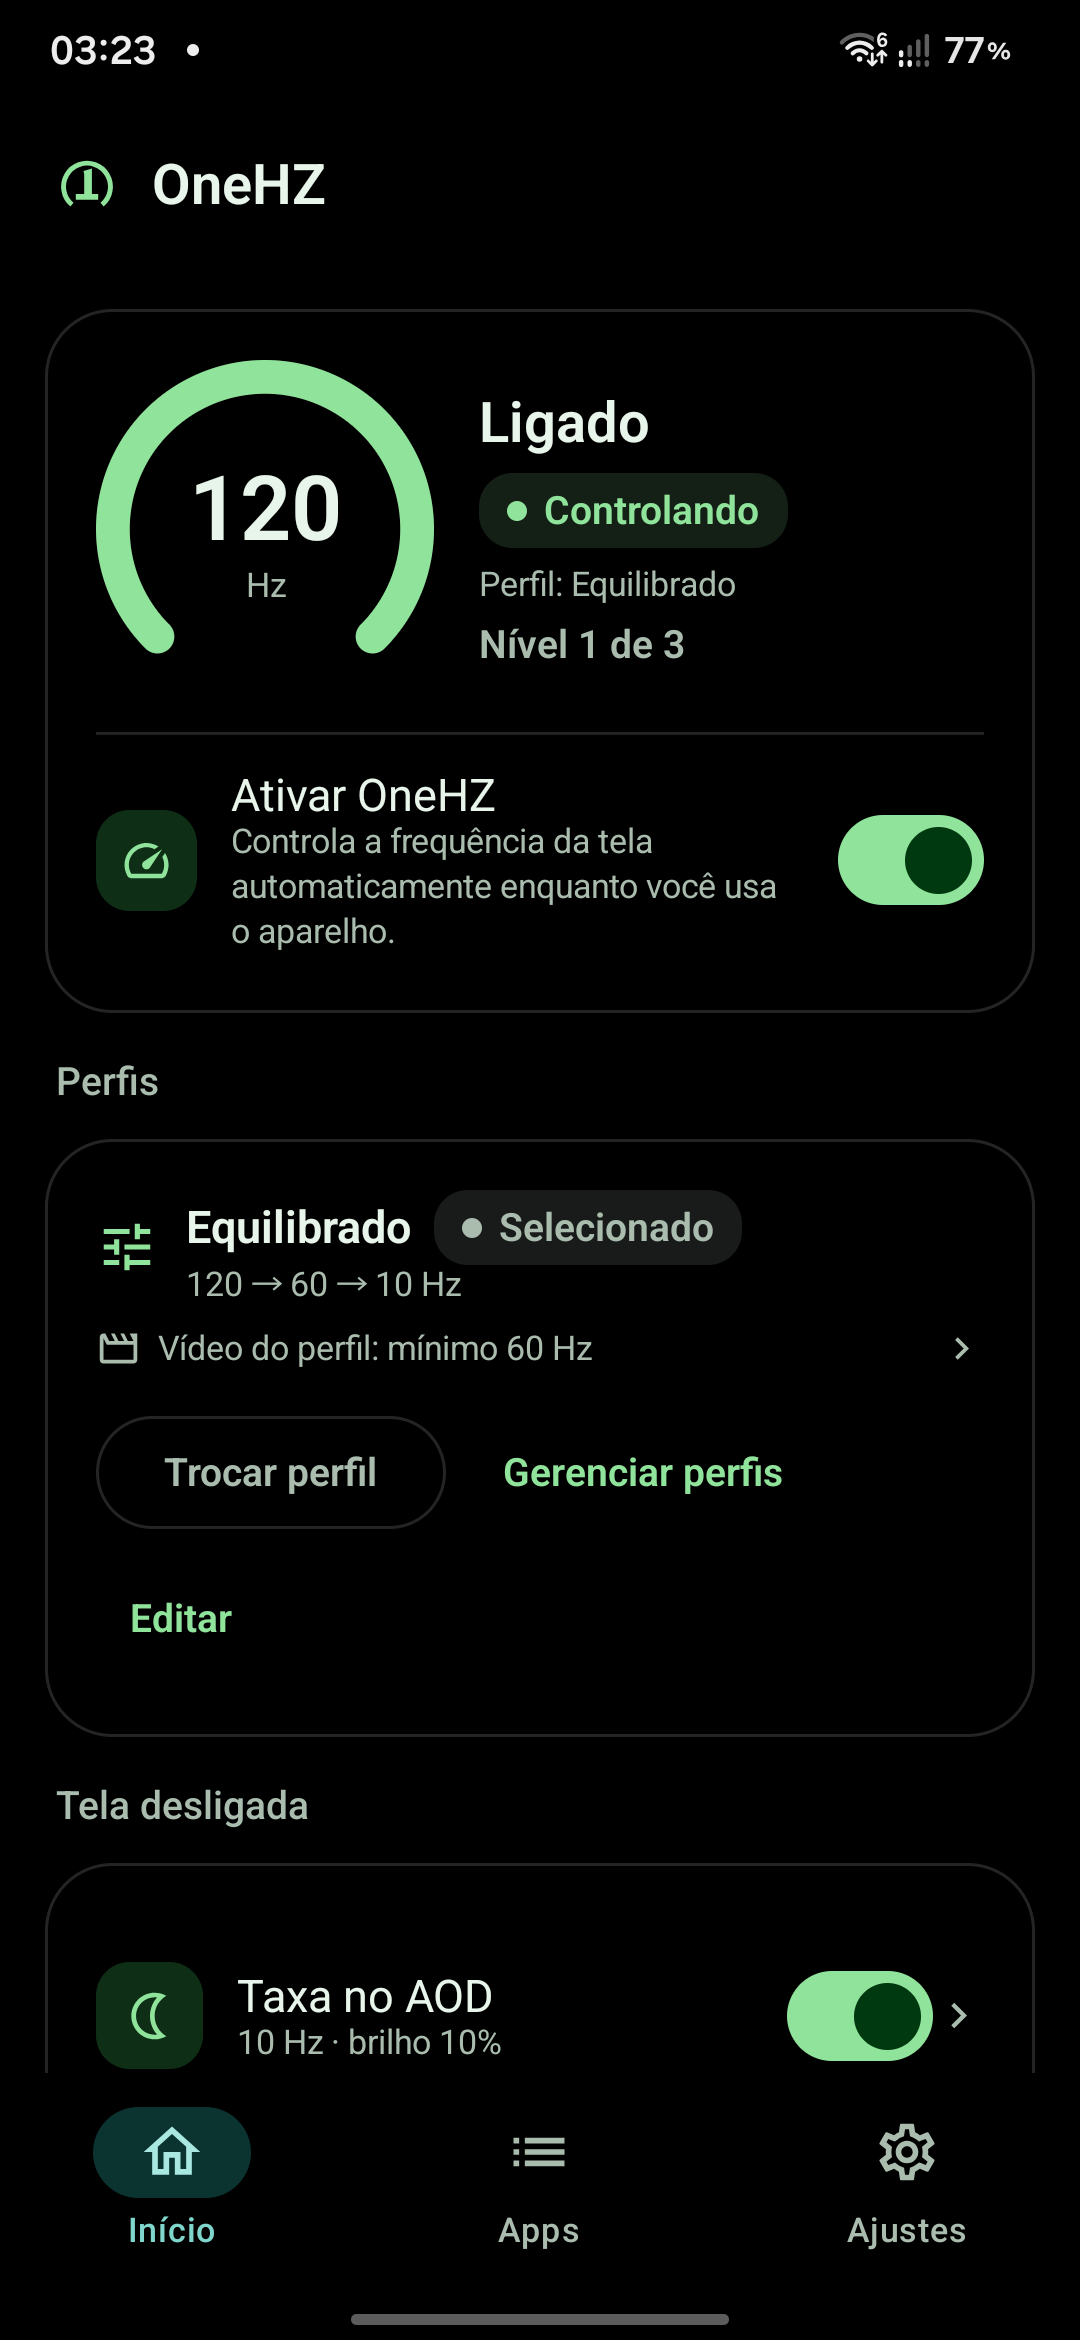
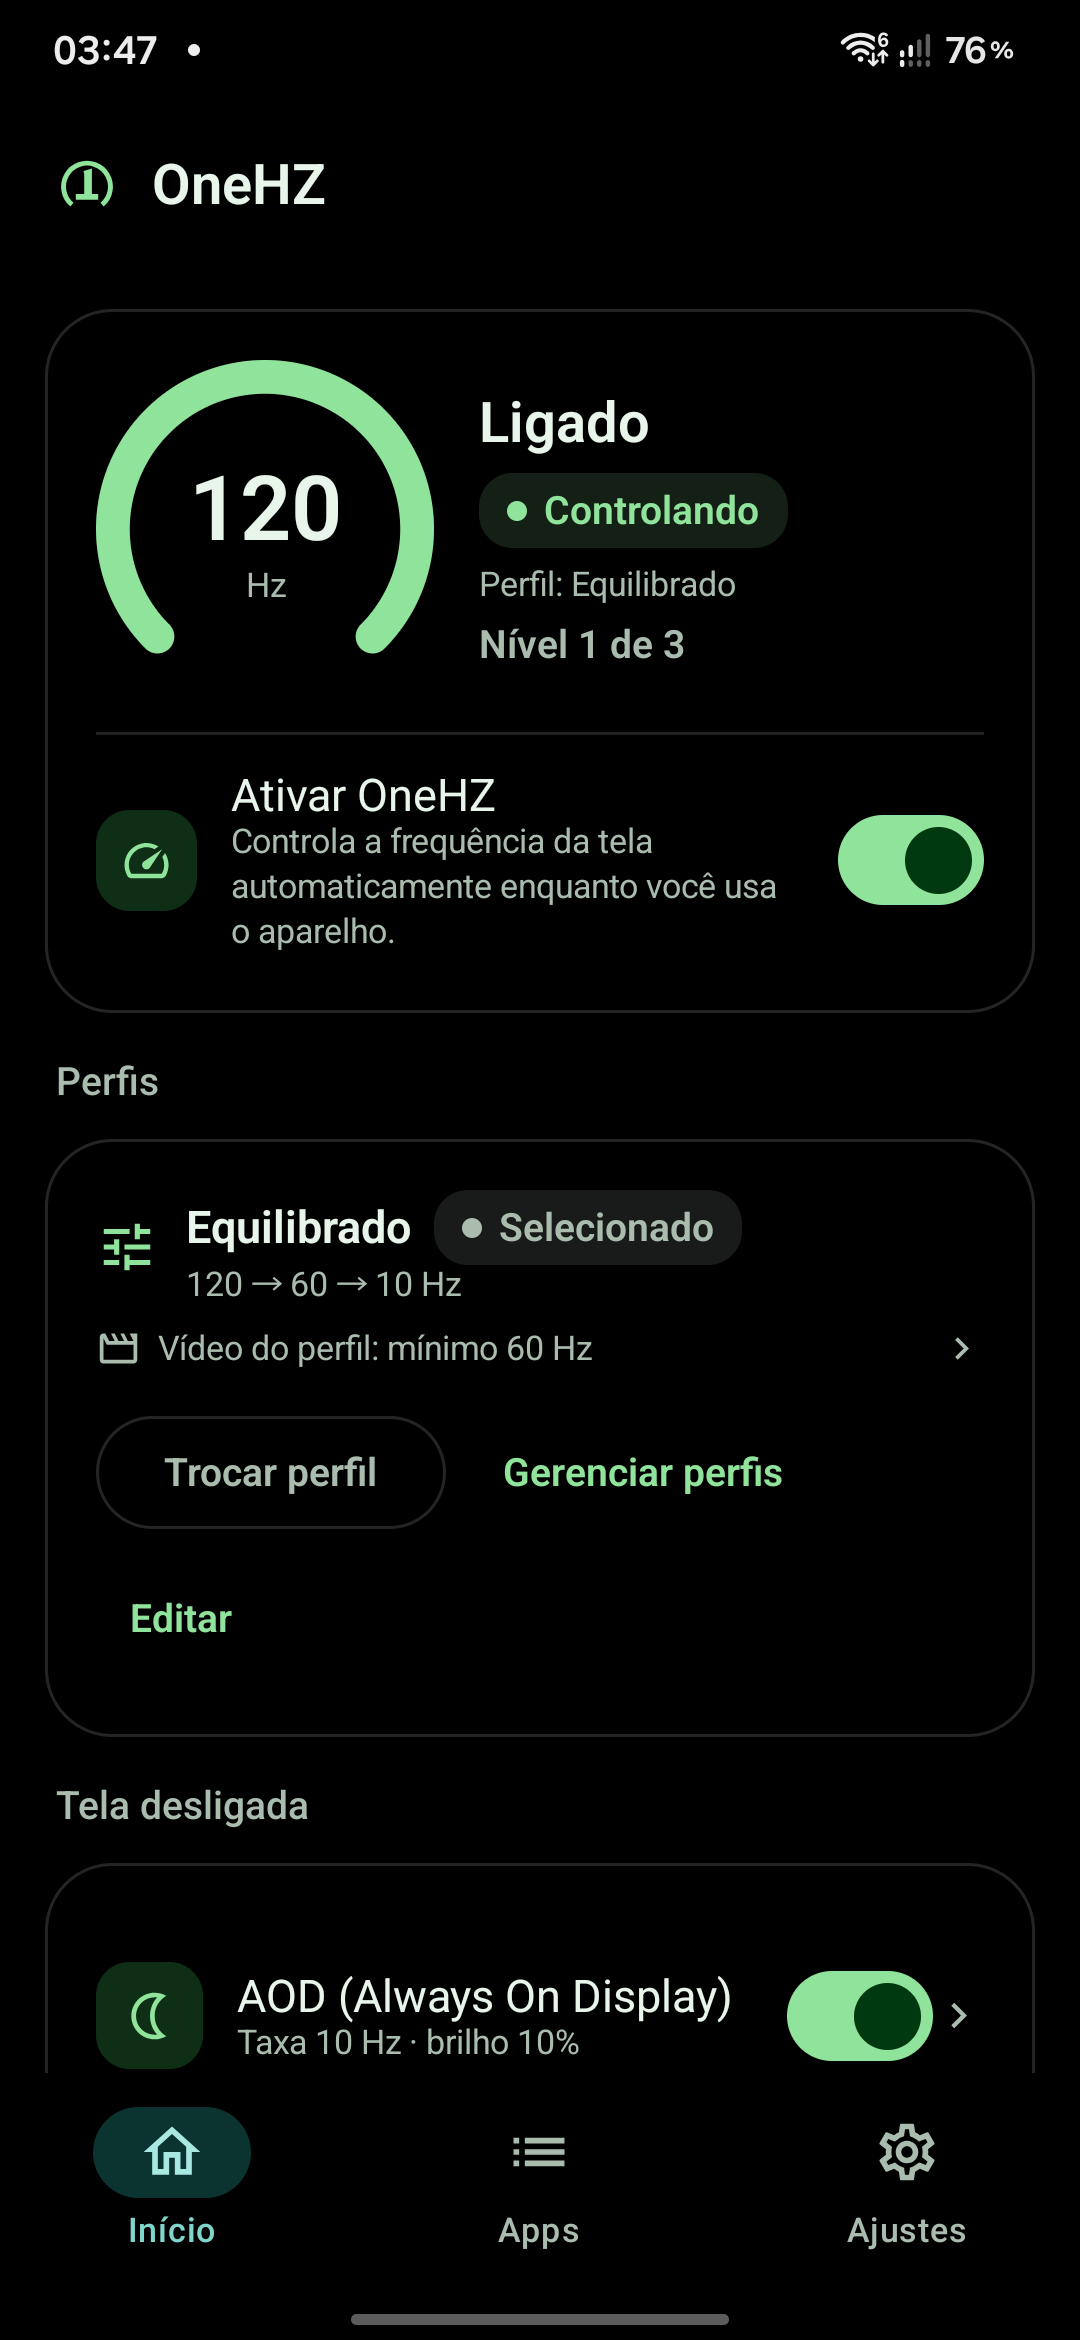
fix(ux): label the AOD section and remember the last app assignment

diff --git a/app/src/main/java/io/github/nevesz/onehz/ui/home/HomeScreen.kt b/app/src/main/java/io/github/nevesz/onehz/ui/home/HomeScreen.kt
@@ -159,6 +159,7 @@ fun HomeScreen(
     val activeLayer by Diagnostics.activeLayer.collectAsState()
     val activeProfileId by Diagnostics.activeProfileId.collectAsState()
     val activeAppPackage by Diagnostics.activeAppPackage.collectAsState()
+    val lastAssignedAppPackage by Diagnostics.lastAssignedAppPackage.collectAsState()
 
     val lifecycleOwner = LocalLifecycleOwner.current
     var refresh by remember { mutableIntStateOf(0) }
@@ -204,6 +205,12 @@ fun HomeScreen(
     val activeAppLabel = remember(activeAppPackage) {
         activeAppPackage?.let { runCatching { AppCatalog.label(context, it) }.getOrDefault(it) }
     }
+    val lastAssignedAppLabel = remember(lastAssignedAppPackage) {
+        lastAssignedAppPackage?.let { runCatching { AppCatalog.label(context, it) }.getOrDefault(it) }
+    }
+    val lastAssignedProfile = lastAssignedAppPackage?.let { pkg ->
+        state.profileState.assignment(pkg)?.let { state.profileState.profile(it.profileId) }
+    }
     val appliedProfile = activeProfileId?.let { state.profileState.profile(it) }
     val videoPlaying = videoSource == VideoSignals.Source.PLAYING
     val sourceText = when {
@@ -230,6 +237,21 @@ fun HomeScreen(
         activeProfile != null ->
             stringResource(R.string.home_source_profile, profileLabel(activeProfile))
         else -> stringResource(R.string.profile_idle_off)
+    }
+    val lastAppText = if (
+        state.enabled &&
+        shizuku == ShizukuState.READY &&
+        activeAppPackage == null &&
+        lastAssignedAppLabel != null &&
+        lastAssignedProfile != null
+    ) {
+        stringResource(
+            R.string.home_last_app,
+            lastAssignedAppLabel,
+            profileLabel(lastAssignedProfile)
+        )
+    } else {
+        null
     }
 
     if (!gate.eligible) {
@@ -273,6 +295,7 @@ fun HomeScreen(
                 activeStepCount = activeStepCount,
                 idleReason = idleReason,
                 sourceText = sourceText,
+                lastAppText = lastAppText,
                 onToggle = { on ->
                     state = state.copy(enabled = on)
                     OneHzPreferences.setEnabled(context, on)
@@ -361,7 +384,7 @@ fun HomeScreen(
             OneHzCard {
                 SettingRow(
                     icon = Icons.Outlined.Nightlight,
-                    title = stringResource(R.string.aod_rate_title),
+                    title = stringResource(R.string.aod_title),
                     subtitle = aodSummary(state, gate.profile.supportsAodBrightness),
                     onClick = onOpenAod,
                     trailing = {
@@ -473,7 +496,7 @@ private fun aodSummary(state: HomeState, supportsBrightness: Boolean): String {
     return if (supportsBrightness && state.aodBrightnessEnabled) {
         stringResource(R.string.home_aod_summary_on, state.aodHz, state.aodBrightnessPct)
     } else {
-        stringResource(R.string.aod_minimum, state.aodHz)
+        stringResource(R.string.home_aod_summary_rate, state.aodHz)
     }
 }
 
@@ -690,6 +713,7 @@ private fun HeroCard(
     activeStepCount: Int,
     idleReason: IdleReason?,
     sourceText: String?,
+    lastAppText: String?,
     onToggle: (Boolean) -> Unit
 ) {
     val control = when {
@@ -722,6 +746,14 @@ private fun HeroCard(
                     Spacer(Modifier.height(6.dp))
                     Text(
                         text = sourceText,
+                        style = MaterialTheme.typography.bodySmall,
+                        color = MaterialTheme.colorScheme.onSurfaceVariant
+                    )
+                }
+                if (lastAppText != null) {
+                    Spacer(Modifier.height(2.dp))
+                    Text(
+                        text = lastAppText,
                         style = MaterialTheme.typography.bodySmall,
                         color = MaterialTheme.colorScheme.onSurfaceVariant
                     )

diff --git a/app/src/main/java/io/github/nevesz/onehz/engine/OneHzEngine.kt b/app/src/main/java/io/github/nevesz/onehz/engine/OneHzEngine.kt
@@ -503,6 +503,10 @@ object OneHzEngine {
                 Diagnostics.activeLayer.value = policy.layer
                 Diagnostics.activeProfileId.value = policy.profileId
                 Diagnostics.activeAppPackage.value = policy.appPackage
+                if (policy.appPackage != null && policy.profileId != null) {
+                    Diagnostics.lastAssignedAppPackage.value = policy.appPackage
+                    Diagnostics.lastAssignedProfileId.value = policy.profileId
+                }
                 Diagnostics.activeStep.value = index + 1
                 Diagnostics.activeStepCount.value = policy.profile.steps.size
                 Diagnostics.activeTierKey.value = when {

diff --git a/app/src/main/java/io/github/nevesz/onehz/diagnostic/Diagnostics.kt b/app/src/main/java/io/github/nevesz/onehz/diagnostic/Diagnostics.kt
@@ -51,6 +51,8 @@ object Diagnostics {
     val activeLayer = MutableStateFlow<String?>(null)
     val activeProfileId = MutableStateFlow<String?>(null)
     val activeAppPackage = MutableStateFlow<String?>(null)
+    val lastAssignedAppPackage = MutableStateFlow<String?>(null)
+    val lastAssignedProfileId = MutableStateFlow<String?>(null)
     val activeStep = MutableStateFlow(0)
     val activeStepCount = MutableStateFlow(0)
     val idleReason = MutableStateFlow<io.github.nevesz.onehz.engine.IdleReason?>(null)
